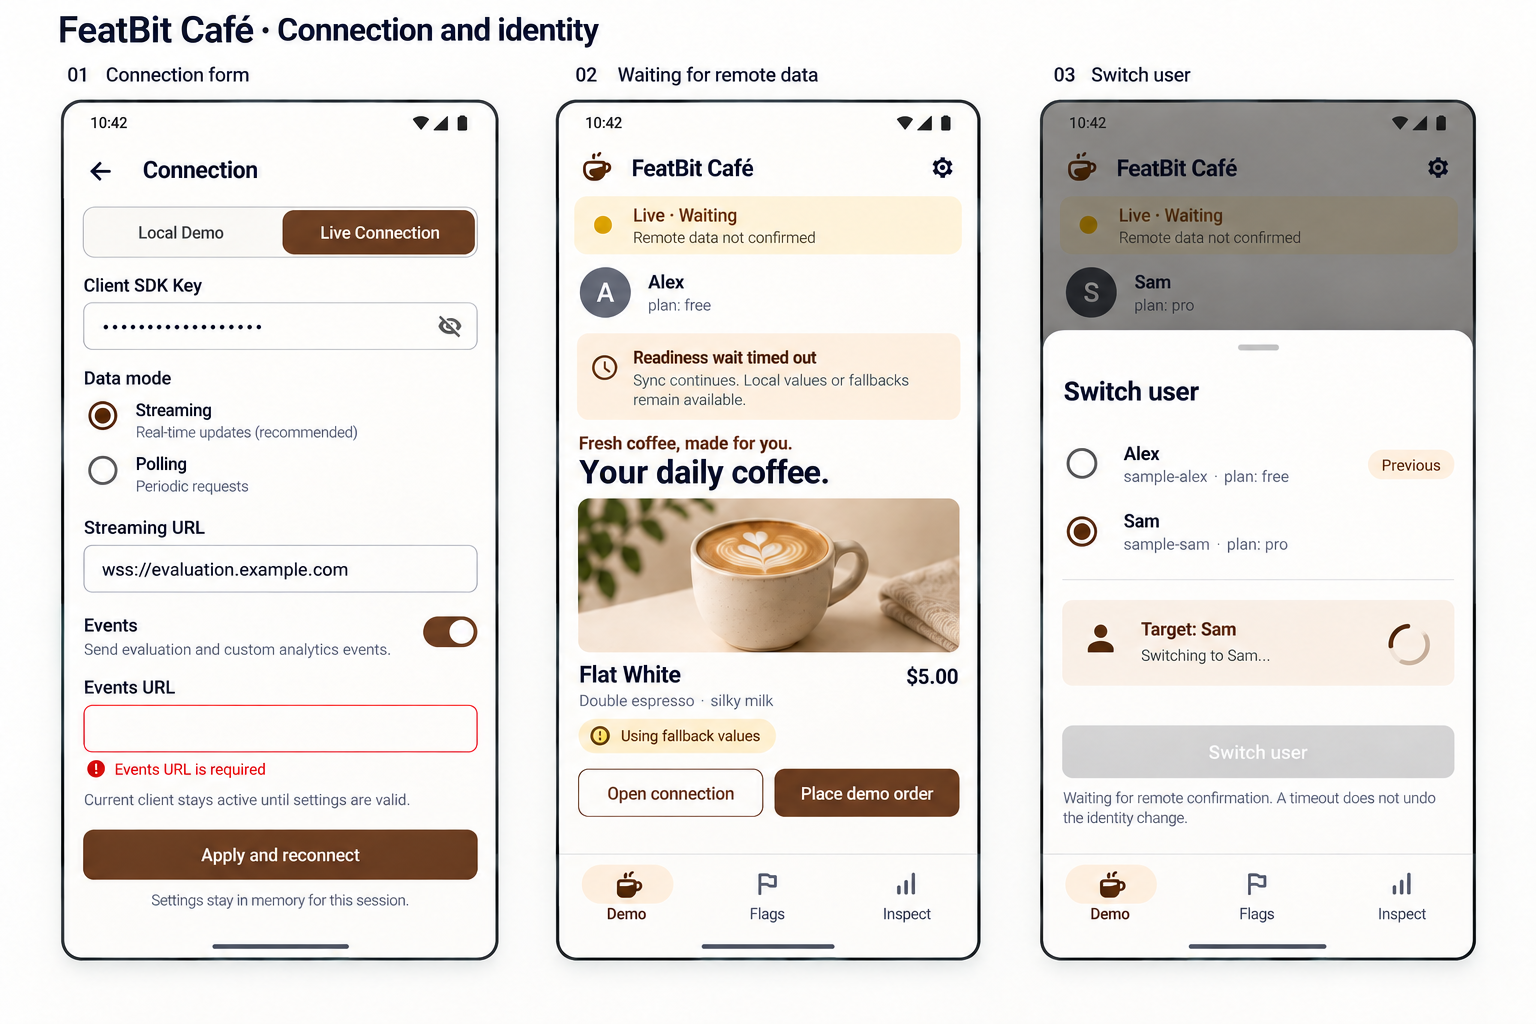
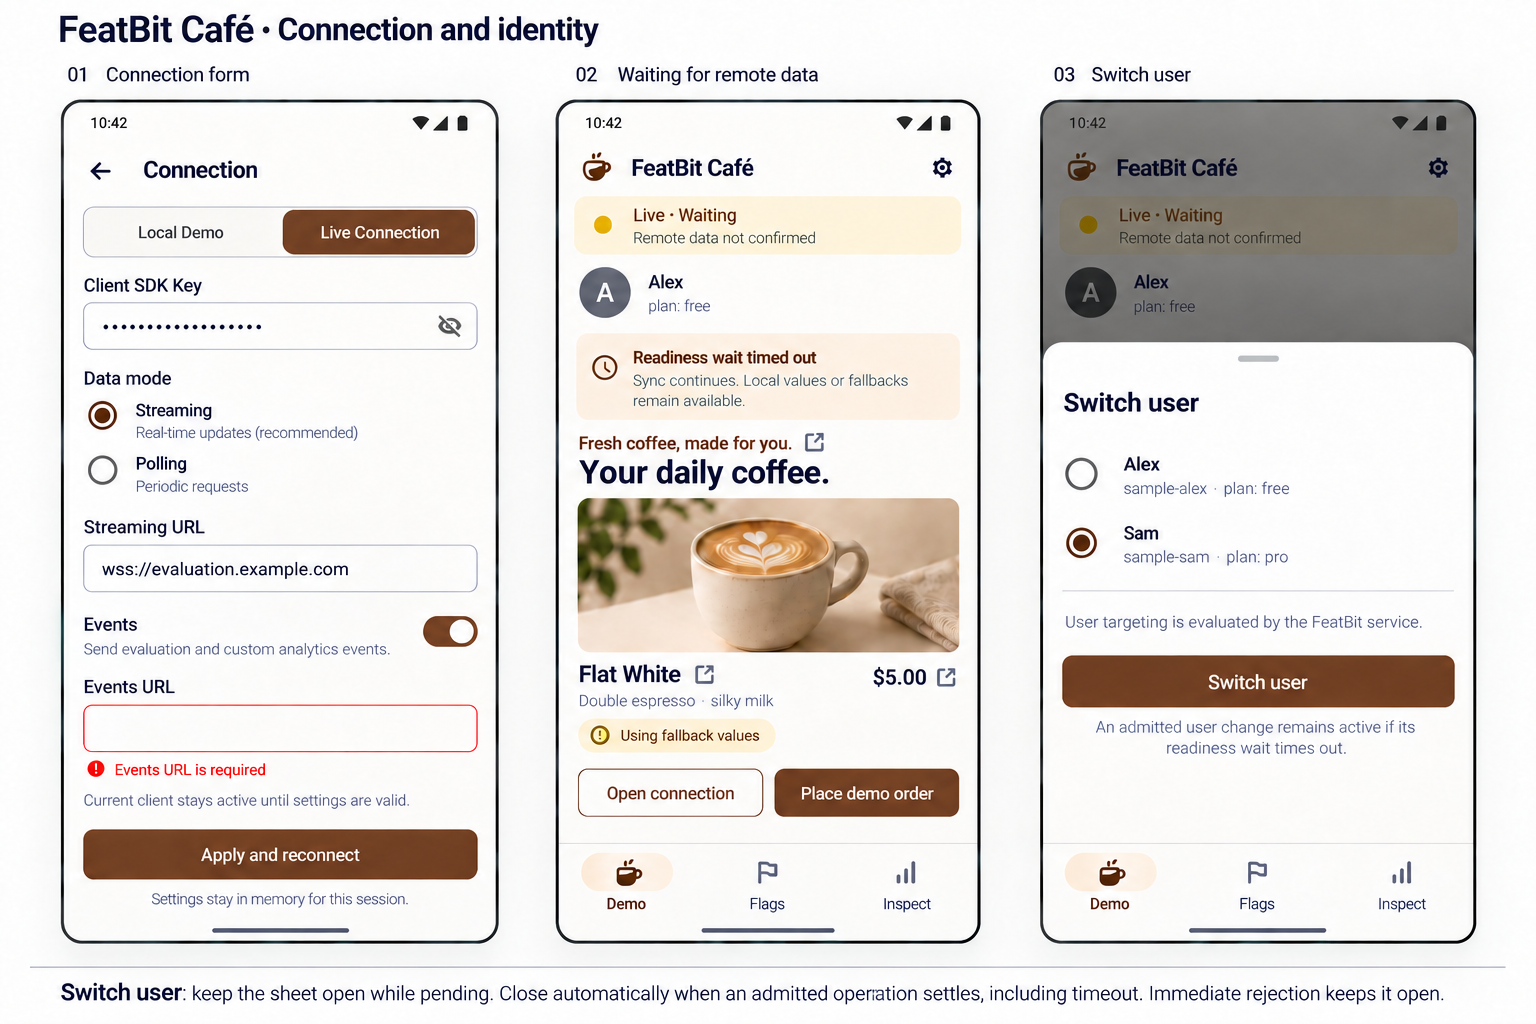
improve sample

diff --git a/samples/kotlin/src/main/kotlin/co/featbit/sample/kotlin/MainActivity.kt b/samples/kotlin/src/main/kotlin/co/featbit/sample/kotlin/MainActivity.kt
@@ -201,7 +201,10 @@ class MainActivity : AppCompatActivity() {
         user.addView(button(text(R.string.switch_user_short), true) { session.userChoice = s.user; session.userSheet = true; forms.showUsers() }.apply { isEnabled = s.available && !s.flushPending; strokeWidth = 0; setBackgroundColor(android.graphics.Color.TRANSPARENT) }, LinearLayout.LayoutParams(-2, dp(48)))
         add(parent, user, 8)
         val b = s.business
-        add(parent, label(b.promo, 14f, true, color(R.color.cafe_primary)).apply { setOnClickListener { openFlag(session.specs[1].key) }; contentDescription = "${b.promo}. ${text(R.string.view_promo_flag)}" }, 12)
+        val promo = row()
+        promo.addView(label(b.promo, 14f, true, color(R.color.cafe_primary)), LinearLayout.LayoutParams(0, -2, 1f))
+        promo.addView(icon(R.drawable.ic_open, text(R.string.view_promo_flag)) { openFlag(session.specs[1].key) }, LinearLayout.LayoutParams(dp(48), dp(48)))
+        add(parent, promo, 4)
         if (b.compact) add(parent, label(text(R.string.hero_title), 28f, true))
         add(parent, ImageView(this@MainActivity).apply {
             setImageBitmap(coffee()); scaleType = ImageView.ScaleType.FIT_CENTER
@@ -232,32 +235,49 @@ class MainActivity : AppCompatActivity() {
                 }
                 group.addView(choice, if (wrapChoices) LinearLayout.LayoutParams(-1, -2) else LinearLayout.LayoutParams(0, dp(48), 1f))
             }
-            add(parent, group, 8)
+            val menu = row()
+            menu.addView(group, LinearLayout.LayoutParams(0, -2, 1f))
+            menu.addView(icon(R.drawable.ic_open, text(R.string.view_menu_flag)) { openFlag(session.specs[3].key) }, LinearLayout.LayoutParams(dp(48), dp(48)))
+            add(parent, menu, 8)
             val checkout = LinearLayout(this@MainActivity).apply {
                 orientation = if (bigText) LinearLayout.VERTICAL else LinearLayout.HORIZONTAL
                 gravity = Gravity.CENTER_VERTICAL; background = shape(color(R.color.cafe_surface), 12, true); setPadding(dp(10), dp(8), dp(10), dp(8))
             }
-            val pricing = if (bigText) column() else row()
-            pricing.addView(label("$${b.total.toPlainString()}", 24f, true).apply { setOnClickListener { openFlag(session.specs[2].key) } })
+            val pricing = column()
+            val amount = row()
+            amount.addView(label("$${b.total.toPlainString()}", 24f, true))
+            val discountLink = icon(R.drawable.ic_open, text(R.string.view_discount_flag)) { openFlag(session.specs[2].key) }
+            pricing.addView(amount)
             if (b.discount > 0) {
                 val offer = row()
                 offer.addView(label("$5.00", 10f, false, color(R.color.cafe_muted)).apply { paintFlags = paintFlags or android.graphics.Paint.STRIKE_THRU_TEXT_FLAG })
                 offer.addView(label("${number(b.discount)}% off", 10f, false, color(R.color.cafe_primary)).apply { background = shape(color(R.color.cafe_tonal), 20); setPadding(dp(6), dp(3), dp(6), dp(3)) }, LinearLayout.LayoutParams(-2, -2).apply { marginStart = dp(8) })
+                offer.addView(discountLink, LinearLayout.LayoutParams(dp(48), dp(48)))
                 pricing.addView(offer, LinearLayout.LayoutParams(-2, -2).apply { marginStart = dp(6) })
+            } else {
+                amount.addView(discountLink, LinearLayout.LayoutParams(dp(48), dp(48)))
             }
             checkout.addView(pricing, if (bigText) LinearLayout.LayoutParams(-1, -2) else LinearLayout.LayoutParams(0, -2, 1f))
             checkout.addView(button(text(R.string.place_order)) { session.order() }.apply { isEnabled = s.available },
                 if (bigText) LinearLayout.LayoutParams(-1, -2).apply { topMargin = dp(8) } else LinearLayout.LayoutParams(dp(if (wide) 190 else 130), -2).apply { marginStart = dp(8) })
             add(parent, checkout, 8)
         } else {
-            title(parent, text(R.string.choose_size), 6)
+            val menuHeading = row()
+            menuHeading.addView(label(text(R.string.choose_size), 16f, true), LinearLayout.LayoutParams(0, -2, 1f))
+            menuHeading.addView(icon(R.drawable.ic_open, text(R.string.view_menu_flag)) { openFlag(session.specs[3].key) }, LinearLayout.LayoutParams(dp(48), dp(48)))
+            add(parent, menuHeading, 6)
             val group = RadioGroup(this@MainActivity)
             b.menu.sizes.forEach { size -> group.addView(androidx.appcompat.widget.AppCompatRadioButton(this@MainActivity).apply {
                 text = size.label; id = View.generateViewId(); minHeight = dp(48); isChecked = size.id == s.selectedSize
                 setOnClickListener { session.selectSize(size.id) }
             }) }
             add(parent, group); line(parent, 6); keyValue(parent, text(R.string.subtotal), "$5.00")
-            keyValue(parent, "Discount (${number(b.discount)}%)", "-$${BigDecimal("5.00").subtract(b.total).toPlainString()}")
+            val discount = row()
+            val discountValue = column()
+            keyValue(discountValue, "Discount (${number(b.discount)}%)", "-$${BigDecimal("5.00").subtract(b.total).toPlainString()}")
+            discount.addView(discountValue, LinearLayout.LayoutParams(0, -2, 1f))
+            discount.addView(icon(R.drawable.ic_open, text(R.string.view_discount_flag)) { openFlag(session.specs[2].key) }, LinearLayout.LayoutParams(dp(48), dp(48)))
+            add(parent, discount)
             line(parent, 6); keyValue(parent, text(R.string.total), "$${b.total.toPlainString()}", true)
         }
         if (b.compact) add(parent, label(text(R.string.simulated_order), 12f, false, color(R.color.cafe_muted)).apply { gravity = Gravity.CENTER }, 8)
@@ -288,16 +308,13 @@ class MainActivity : AppCompatActivity() {
             if (index != 0) line(parent, 0)
         }
         if (session.specs.none { it.key.contains(session.filter, true) }) note(parent, text(R.string.no_matches), false)
-        val panel = column().apply { background = shape(color(R.color.cafe_panel), 12, true); setPadding(dp(14), dp(10), dp(14), dp(10)) }
-        evaluation(panel, session.specs.first(), s); add(parent, panel, 10)
         add(parent, label(text(R.string.no_browse_events), 12f, false, color(R.color.cafe_muted)), 12)
         if (s.local) add(parent, button(text(R.string.restore_all), true) {
             forms.confirm(text(R.string.restore_all), text(R.string.restore_all_warning)) { session.edit(null, restoreAll = true) }
         }.apply { isEnabled = s.available }, 12)
     }
-    private fun evaluation(parent: LinearLayout, spec: FlagSpec, s: ScreenState, showKey: Boolean = true): Unit = with(ui) {
+    private fun evaluation(parent: LinearLayout, spec: FlagSpec, s: ScreenState): Unit = with(ui) {
         add(parent, label(text(R.string.last_evaluation), 14f, true))
-        if (showKey) add(parent, label(spec.key, 14f, true), 6)
         val read = s.reads[spec.key]
         if (read == null) add(parent, label(text(R.string.not_evaluated), 12f, false, color(R.color.cafe_muted)), 6)
         else {
@@ -316,7 +333,7 @@ class MainActivity : AppCompatActivity() {
         keyValue(card, text(R.string.value), s.snapshot[key]?.value ?: text(R.string.missing_flag))
         keyValue(card, text(R.string.expected_type), if (spec.type == ValueType.JSON) "JSON" else spec.type.name.lowercase().replaceFirstChar { it.uppercase() })
         line(card, 14)
-        val panel = column(); evaluation(panel, spec, s, false); add(card, panel, 14)
+        val panel = column(); evaluation(panel, spec, s); add(card, panel, 14)
         if (s.local) {
             add(card, button(text(R.string.edit_local)) { session.editorKey = key; session.editorText = session.localValue(key); forms.showEditor(key) }.apply { isEnabled = s.available }, 10)
             add(card, button(text(R.string.restore_default), true) { session.edit(key, spec.initial) }.apply { isEnabled = s.available; strokeWidth = 0 }, 4)

diff --git a/samples/kotlin/src/androidTest/kotlin/co/featbit/sample/kotlin/SampleDeviceTest.kt b/samples/kotlin/src/androidTest/kotlin/co/featbit/sample/kotlin/SampleDeviceTest.kt
@@ -41,6 +41,47 @@ class SampleDeviceTest {
         android.os.ParcelFileDescriptor.AutoCloseInputStream(descriptor).use { it.readBytes() }
         assertTrue("Screenshot missing: $name", file.length() > 1000)
     }
+    @Test fun flagListKeepsEvaluationInDetails() {
+        ActivityScenario.launch(MainActivity::class.java).use { scenario ->
+            lateinit var session: SampleSession
+            scenario.onActivity { session = it.session }
+            waitFor { session.state.value.available }
+            scenario.onActivity { session.draft.local = true; session.connect() }
+            waitFor { session.state.value.available && session.state.value.local }
+            scenario.onActivity { session.destination = "Flags"; session.detailKey = null; it.navigate() }
+            onView(withText(R.string.last_evaluation)).check(doesNotExist())
+            onView(withText(R.string.evaluate)).check(doesNotExist())
+            capture("flags-list-without-evaluation")
+            val promo = session.specs[1].key
+            onView(withText(promo)).perform(click())
+            onView(withText(R.string.evaluate)).perform(scrollTo(), click())
+            scenario.onActivity { assertTrue(session.state.value.reads.containsKey(promo)) }
+            androidx.test.espresso.Espresso.pressBack()
+            onView(withText(R.string.last_evaluation)).check(doesNotExist())
+            onView(withText(R.string.evaluate)).check(doesNotExist())
+        }
+    }
+    @Test fun demoFlagButtonsOpenMatchingDetails() {
+        ActivityScenario.launch(MainActivity::class.java).use { scenario ->
+            lateinit var session: SampleSession
+            scenario.onActivity { session = it.session }
+            waitFor { session.state.value.available }
+            scenario.onActivity { session.draft.local = true; session.connect() }
+            waitFor { session.state.value.available && session.state.value.local }
+            val links = listOf(R.string.view_checkout_flag to 0, R.string.view_promo_flag to 1,
+                R.string.view_discount_flag to 2, R.string.view_menu_flag to 3)
+            for (compact in listOf(true, false)) {
+                scenario.onActivity { session.edit(session.specs[0].key, compact.toString()); session.destination = "Demo"; session.detailKey = null; it.navigate() }
+                waitFor { session.state.value.available && session.state.value.business.compact == compact }
+                capture(if (compact) "flag-links-compact" else "flag-links-classic")
+                for ((description, index) in links) {
+                    onView(withContentDescription(description)).perform(scrollTo(), click())
+                    scenario.onActivity { assertEquals(session.specs[index].key, session.detailKey) }
+                    androidx.test.espresso.Espresso.pressBack()
+                }
+            }
+        }
+    }
     @Test fun completedUserSwitchClosesSheet() {
         ActivityScenario.launch(MainActivity::class.java).use { scenario ->
             lateinit var session: SampleSession
@@ -86,7 +127,9 @@ class SampleDeviceTest {
             scenario.onActivity { session.dismissMessage() }
             onView(org.hamcrest.Matchers.allOf(withId(R.id.nav_flags), isDisplayed())).perform(click())
             onView(withText("4 demo flags")).check(matches(isDisplayed()))
+            scenario.onActivity { it.openFlag(session.specs[0].key) }
             onView(withText("Evaluate flag")).perform(scrollTo(), click())
+            androidx.test.espresso.Espresso.pressBack()
             waitFor { session.state.value.reads.isNotEmpty() }
             capture("phone-flags")
             scenario.onActivity { session.edit(session.specs[0].key, "false") }

diff --git a/samples/image-prompts.md b/samples/image-prompts.md
@@ -2,7 +2,7 @@
 
 Generated with the built-in image generation tool, not the CLI/API fallback. These are
 consolidated final prompts incorporating the correction passes, for future design continuity.
-Use the original `ui-design.png` only as a visual-style reference; it has superseded content.
+`ui-design.png` now mirrors `ui-overview-v2.png`; both contain the current overview.
 Images are concept artifacts, not implementation or device-verification evidence.
 
 ## Shared visual prompt
@@ -18,8 +18,11 @@ of Kotlin and Java; language-specific launcher names need not appear in each scr
 
 Preserve the three-screen Demo/Flags/Inspect board. Show Sam, avatar S, plan: pro in Demo.
 Compact checkout combines amount and order button into a horizontal action surface with
-base price/discount near the amount. Keep the simulated-payment disclaimer. In Flags,
-label the result Last explicit evaluation and give its observation time. Inspect distinguishes
+base price/discount below the amount, with the discount shortcut immediately after the badge.
+Show four flag-detail shortcuts: promo, checkout layout, menu, discount. Keep the simulated-payment
+disclaimer. The Flags panel demonstrates Local Demo and includes Restore all demo flags.
+Live mode hides this button. Remove the entire list evaluation panel; evaluation stays in details.
+The Local-only helper in the board is a design annotation, not required app copy. Inspect distinguishes
 local Track acceptance from transport delivery and storage confirmation.
 
 ## Checkout comparison — ui-checkout.png
@@ -28,16 +31,22 @@ Two full screens, classic flag=false with Alex/free and compact flag=true with S
 Classic has a vertical radio list and subtotal/discount/total breakdown with full-width button;
 compact has segmented sizes and unified amount/button surface. Both select Regular, base USD 5.00,
 10% discount, USD 4.50 total and the same promo. No prices beside individual sizes: all sizes cost
-the same. Preserve selection, pricing, and event behavior; only layout differs.
+the same. Preserve selection, pricing, and event behavior; only layout differs. Both layouts
+show four flag-detail shortcuts. Compact puts the discount shortcut immediately after the
+discount badge, not beside the total; with zero discount it remains beside the total.
+Classic keeps its order action above navigation while its content scrolls.
 
 ## Connection and identity — ui-connection-users.png
 
 Three screens: Live connection form with masked client key, sync mode and URL, enabled Events,
 missing Events URL validation; a waiting/timeout Demo with fallback USD 5.00 and fallback promo
-Fresh coffee, made for you.; a user switch sheet showing Alex/free as Previous and Sam/pro as
-the target while waiting. Events helper says Send evaluation and custom analytics events.
-Do not describe Events as receiving flag updates. Use an indeterminate spinner, not a percentage
-progress bar. A timeout does not undo an admitted identity change.
+Fresh coffee, made for you.; a user switch sheet before submission with Alex/free current and
+Sam/pro selected. The enabled Switch user button submits Identify. Events helper says Send evaluation and custom analytics events.
+Do not describe Events as receiving flag updates. The footer explicitly requires the sheet to
+remain open while pending and close when an admitted operation settles, including timeout;
+immediate rejection keeps it open. A timeout does not undo an admitted identity change.
+The waiting screen is a condensed state illustration; use the checkout board for the complete
+menu/layout. The fixed hero headline itself is not a flag shortcut.
 
 ## Local editing and evaluation — ui-flag-editing.png
 
@@ -56,3 +65,13 @@ semantics. Corrected generated per-size prices, the Events helper, timeout fallb
 the pending-user label/progress representation. Written contracts govern exact copy and behaviors
 abbreviated in the pictures. Native layout measurements, dark-theme/font-scale behavior, and
 runtime accessibility remain implementation-time checks, not validated by these images.
+
+## Revision 2026-10-03
+
+Replaced overview, checkout and connection/identity boards in place using image edits.
+Retained the detail/editor board because detail evaluation remains supported. Checked the
+Local restore action, absent list evaluation, four checkout shortcuts and discount placement,
+and the automatic-dismissal annotation. These are shared Kotlin/Java implementation references,
+not new device-test evidence. Use native 48dp touch targets and the written contracts for exact
+layout/copy. The independent `shared/assets/cafe-reference.png` remains unchanged: it supplies
+the app coffee crop and must not be replaced with the revised overview.

diff --git a/samples/kotlin/VERIFICATION.md b/samples/kotlin/VERIFICATION.md
@@ -6,6 +6,33 @@ This is sample evidence, not the SDK release-acceptance matrix.
 
 ## Automated checks
 
+- Discount shortcut placement follow-up: moved the Compact checkout shortcut to
+  the right of the discount badge. The Debug build and
+  `demoFlagButtonsOpenMatchingDetails` passed again on the API 34 emulator (both
+  checkout layouts). Inspected `../build/discount-link-position.png`; build log:
+  `../build/discount-link-build.log`. Zero-discount placement was reviewed in code,
+  not separately exercised in this device run.
+
+- Flags list simplification: removed the evaluation panel and its selector state.
+  `flagListKeepsEvaluationInDetails` passed on the API 34 emulator: the list has no
+  evaluation controls, while opening the promo detail and evaluating still records
+  its result. The Debug build passed and the updated APK was installed.
+  Screenshot inspected: `../build/flags-list-without-evaluation.png`.
+
+- Historical evaluation selector (subsequently removed from the Flags list):
+  `evaluationPanelFollowsExplicitReadAndAllowsSelection` passed
+  on the API 34 emulator. A detail-page promo evaluation becomes the Flags panel's
+  selection; it survives Activity recreation. Selecting the menu flag leaves reads
+  unchanged until Evaluate is clicked, which records the selected flag's result.
+  Screenshot: `../build/evaluation-selector.png`. This was a focused Debug/Local test.
+
+- Demo flag shortcuts: `demoFlagButtonsOpenMatchingDetails` passed on the API 34
+  phone emulator, clicking all four shortcuts in both Compact and Classic layouts
+  and checking each destination key. Debug APKs built and were installed. Captures
+  `../build/flag-links-compact.png` and `../build/flag-links-classic.png` were inspected;
+  log: `../build/flag-links-test.log`. This follow-up did not repeat tablet, large-font,
+  Live service or Release/R8 checks.
+
 - User-sheet dismissal follow-up: the focused `completedUserSwitchClosesSheet`
   Debug instrumentation test passed on the API 34 emulator. It selects a different
   user through the actual sheet controls, checks automatic dismissal after Identify

diff --git a/samples/README.md b/samples/README.md
@@ -13,6 +13,15 @@ and acceptance criteria. Language-specific integration code differs; product beh
 
 ## Run the sample
 
+On the Demo screen, the open-detail icon beside each flag-driven component opens
+its matching flag: checkout layout, promo message, discount pricing, or cup-size menu.
+These shortcuts are available in both Compact and Classic checkout layouts.
+In Compact checkout, the discount shortcut sits immediately to the right of the
+discount badge (for example, **10% off**). With zero discount, the badge is hidden
+and the shortcut remains next to the total price.
+The Flags list shows current snapshots. Open a flag's detail page to use
+**Evaluate flag** and inspect its last explicit result. The list has no evaluation panel.
+
 The Kotlin sample is available now; the Java sample is not implemented yet.
 Use JDK 17 and install Android SDK Platform 34. An API 34 emulator is recommended
 for the first run; the app supports Android API 21 and later.
@@ -102,6 +111,13 @@ product/platform requirements. Async APIs, widgets, file structure, and build to
   module organization, build/run instructions, and engineering verification.
 
 ## 3. Visual reference
+
+Updated 2026-10-03 for both Kotlin and Java implementations. The overview shows Flags
+in Local Demo, including **Restore all demo flags** (hidden in Live mode), without a list
+evaluation panel. Checkout diagrams show all four flag shortcuts and the discount shortcut
+after the badge. The connection board documents automatic user-sheet dismissal.
+`ui-design.png` is an identical copy of the current overview. See [image review notes](./image-prompts.md)
+for condensed states and implementation boundaries.
 
 ![FeatBit Café: Demo, Flags, and Inspect UI concept](./ui-overview-v2.png)
 

diff --git a/samples/DESIGN.md b/samples/DESIGN.md
@@ -116,6 +116,12 @@ Classic keeps the order action and simulation helper above navigation while the 
 
 ## Elevation & Depth
 
+Demo flag shortcuts reuse the open-detail icon with a 48dp touch target. Each opens
+the corresponding in-app flag detail. In Compact checkout, place the discount
+shortcut immediately after the discount badge in the offer row; when no discount
+badge is shown, place it next to the total. The Flags list contains snapshots and
+detail links only; explicit evaluation and its result belong in the detail view.
+
 Tonal surfaces, outlines, and dividers carry most of the hierarchy. Bottom navigation explicitly has zero elevation. Native Material buttons, dialogs, sheets, ripples, focus states, and motion retain their theme behavior; the app does not define a custom shadow or animation scale. Do not invent CSS shadows or motion timings as extracted tokens.
 
 ## Shapes

diff --git a/samples/PRODUCT.md b/samples/PRODUCT.md
@@ -15,7 +15,7 @@ Kotlin and the future Java app share this authority.
 - Layout: Demo / Flags / Inspect, native sheets and Back; 600dp+ uses a navigation rail.
 - Visual language: warm neutral surfaces, espresso actions, amber warnings, restrained green success,
   Roboto, real coffee photograph. English UI text. No default lavender component surfaces.
-- First viewport: business hero and compact checkout; Flags exposes its evaluation action;
+- First viewport: business hero and compact checkout; Flags lists snapshots, with evaluation in flag details;
   Inspect groups connection, events, and recent activity. Large text remains scrollable.
 - Interaction: boolean changes checkout layout while preserving selected size and amount;
   editable Local flags remain distinct from remote Live evaluations. Actual Outcomes stay truthful.
